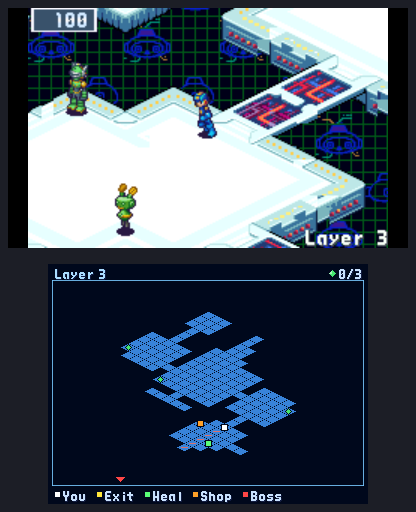
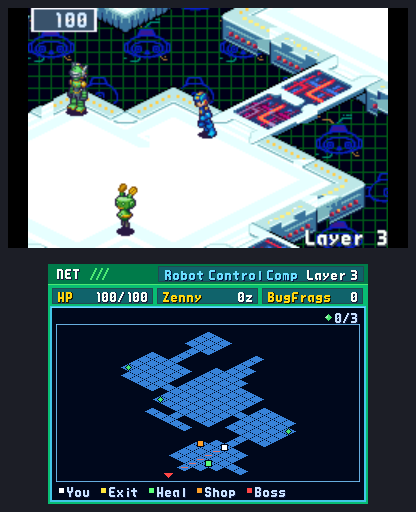
The second screen's polish: BN6's program colours, an Android display's sizes, the README's pictures, the fidelity table (issue #81)
The NaviCust programs' blocks wear BN6's own colours now, face and
shade, measured from the NaviCustomizer's preview of a program of each
colour (only the blue had been; the other five were guesses). Every
panel was captured at the AYN Thor's lower screen's 413 x 360 as well
as the 3DS's 320 x 240: they keep their places, the map and the
folder's grid using the room (--second-size WxH sets a capture's size,
up to 640 x 480). build.py screenshots makes the battle's, the folder
editor's and the NaviCustomizer's panels beside BN6's screens, as a New
3DS shows them, and remakes the two pictures of the old map-only second
screen; the README shows the three. docs/FIDELITY.md says what the
second screen is and whose its pictures and words are; AGENTS.md names
the capture's size and the second screen's reader and words.

Changed region(s): [[0.0938, 0.5, 0.9062, 1.0]]

diff --git a/build.py b/build.py
@@ -1240,6 +1240,16 @@ SCREENSHOTS = [
      [(900, 'voice-banter')], {}),
     ('falzar-face', ['--scene', 'emu', '--run-depth', '3', '--seed', '7', '--net-biome', '11', '--guardian', '8'],
      [(1348, 'guardian-tenguman'), (1600, 'falzar-face')], {'CYBERWORLD_AUTOPILOT': 'weak'}),
+    # (the second screen following the game, issue #72: seed 7's Green Area
+    # layer 2, its arrival's chats paged; the Custom screen's chip as a
+    # card, the folder editor's whole folder, the NaviCustomizer's program)
+    ('second-battle', ['--scene', 'emu', '--run-depth', '2', '--seed', '7', '--net-biome', '3', '--dev', 'quiet',
+                       '--input', '600:,' + '4:A,6:,' * 110 + '60:,0:battle,400:'], [(2230, 'second-battle')], {}, '3ds'),
+    ('second-folder', ['--scene', 'emu', '--run-depth', '2', '--seed', '7', '--net-biome', '3', '--dev', 'quiet',
+                       '--input', '600:,' + '4:A,6:,' * 110 + '60:,6:START,40:,6:A,60:,6:A,60:,6:A,60:,6:DOWN,30:'], [(2080, 'second-folder')], {}, '3ds'),
+    ('second-navicust', ['--scene', 'emu', '--run-depth', '2', '--seed', '7', '--net-biome', '3', '--dev', 'quiet,programs=8',
+                         '--input', '600:,' + '4:A,6:,' * 110 + '60:,6:START,40:' + ',6:DOWN,8:' * 3 + ',6:A,60:,6:A,90:,6:DOWN,30:'],
+     [(2070, 'second-navicust')], {}, '3ds'),
     # (the layer's map on a second screen, the guardian's mark on it)
     ('second-screen', ['--scene', 'emu', '--run-depth', '3', '--seed', '7', '--net-biome', '11', '--guardian', '12'],
      [(1250, 'second-screen')], {'CYBERWORLD_AUTOPILOT': 'weak'}, '3ds'),

diff --git a/src/second/second_card.c b/src/second/second_card.c
@@ -31,14 +31,13 @@ void second_chip_card(uint16_t e, int x, int y, int w) {
 	second_wrapped(desc, tx, y + 52, x + w - tx - 4, 3, PET_WHITE);
 }
 
-/* BN6's program colours 1-6 as its blocks draw them, a face and its shade:
- * the blue measured from the NaviCustomizer's preview (16, 99, 255 on 0,
- * 57, 214), the others BN6's hues until the art pass measures them (issue
- * #81) */
-static const SDL_Color face[7] = { { 0, 0, 0, 255 }, { 239, 239, 239, 255 }, { 255, 214, 0, 255 },
-	{ 255, 115, 198, 255 }, { 255, 57, 41, 255 }, { 16, 99, 255, 255 }, { 41, 206, 57, 255 } };
-static const SDL_Color shade[7] = { { 0, 0, 0, 255 }, { 165, 173, 189, 255 }, { 206, 148, 0, 255 },
-	{ 206, 57, 148, 255 }, { 189, 16, 16, 255 }, { 0, 57, 214, 255 }, { 8, 148, 33, 255 } };
+/* BN6's program colours 1-6 as its blocks draw them, a face and its
+ * shade: measured from the NaviCustomizer's preview of a program of each
+ * colour (white, yellow, pink, red, blue, green) */
+static const SDL_Color face[7] = { { 0, 0, 0, 255 }, { 255, 255, 255, 255 }, { 239, 247, 0, 255 },
+	{ 255, 148, 231, 255 }, { 231, 0, 0, 255 }, { 16, 99, 255, 255 }, { 0, 239, 16, 255 } };
+static const SDL_Color shade[7] = { { 0, 0, 0, 255 }, { 206, 206, 214, 255 }, { 214, 198, 0, 255 },
+	{ 214, 99, 165, 255 }, { 189, 0, 0, 255 }, { 0, 57, 214, 255 }, { 0, 189, 8, 255 } };
 
 void second_program_shape(const NaviShape *s, int x, int y) {
 	int c = s->color >= 1 && s->color <= 6 ? s->color : 0;

diff --git a/src/core/platform_second.c b/src/core/platform_second.c
@@ -72,11 +72,21 @@ static bool draw_second(uint32_t *px, int w, int h, int pitch) {
 	return drew;
 }
 
+/* (a shot's size: the 3DS's, or an Android display's, --second-size) */
+#define SHOT_MAX_W (SECOND_W * 2)
+#define SHOT_MAX_H (SECOND_H * 2)
+static int shot_w = SECOND_W, shot_h = SECOND_H;
+
+void platform_second_shot_size(int w, int h) {
+	shot_w = w < SECOND_W ? SECOND_W : w > SHOT_MAX_W ? SHOT_MAX_W : w;
+	shot_h = h < SECOND_H ? SECOND_H : h > SHOT_MAX_H ? SHOT_MAX_H : h;
+}
+
 bool platform_save_second_screen(const char *path) {
-	static uint32_t px[SECOND_W * SECOND_H];
+	static uint32_t px[SHOT_MAX_W * SHOT_MAX_H];
 	memset(px, 0, sizeof px);
-	if (!draw_second(px, SECOND_W, SECOND_H, SECOND_W * 4)) return false;
-	SDL_Surface *s = SDL_CreateRGBSurfaceWithFormatFrom(px, SECOND_W, SECOND_H, 32, SECOND_W * 4, SDL_PIXELFORMAT_RGBA8888);
+	if (!draw_second(px, shot_w, shot_h, shot_w * 4)) return false;
+	SDL_Surface *s = SDL_CreateRGBSurfaceWithFormatFrom(px, shot_w, shot_h, 32, shot_w * 4, SDL_PIXELFORMAT_RGBA8888);
 	bool ok = s && SDL_SaveBMP(s, path) == 0;
 	if (s) SDL_FreeSurface(s);
 	return ok;

diff --git a/src/dev/capture.c b/src/dev/capture.c
@@ -284,13 +284,18 @@ static const char *pad_kind;
 
 /* --shot FRAME:PATH,... saves the canvas; --screen-shot the screen as the
  * player sees it, the touch controls on it; --second-shot the second
- * screen, the 3DS's bottom one (on any target, for a check); --pad */
+ * screen, the 3DS's bottom one (on any target, for a check), at
+ * --second-size's WxH (an Android display's); --pad */
 static bool test_option(const char *a, const char *v) {
 	if (!strcmp(a, "--pad")) pad_kind = v;
 	else if (!strcmp(a, "--shot")) parse_shots(v, shots, &shot_count, 64);
 	else if (!strcmp(a, "--screen-shot")) parse_shots(v, screen_shots, &screen_shot_count, 16);
 	else if (!strcmp(a, "--second-shot")) parse_shots(v, second_shots, &second_shot_count, 16);
-	else return false;
+	else if (!strcmp(a, "--second-size")) {
+		int w = SECOND_W, h = SECOND_H;
+		sscanf(v, "%dx%d", &w, &h);
+		platform_second_shot_size(w, h);
+	} else return false;
 	return true;
 }
 

diff --git a/src/core/platform.h b/src/core/platform.h
@@ -140,8 +140,11 @@ void platform_second_screen_draw(void);
 /* ... at the next frame too, whatever its pace (a new panel, its title's
  * slide). */
 void platform_second_screen_soon(void);
-/* The second screen's picture now, into a BMP (--second-shot). */
+/* The second screen's picture now, into a BMP (--second-shot), at the
+ * 3DS's size or the one set (--second-size WxH: an Android display's, to
+ * 640 x 480) */
 bool platform_save_second_screen(const char *path);
+void platform_second_shot_size(int w, int h);
 /* Inject buttons for scripted tests; merged with real input. */
 void platform_inject(uint32_t buttons);
 /* Whether a game controller is connected (a PC without one is told its keys). */

diff --git a/AGENTS.md b/AGENTS.md
@@ -52,7 +52,7 @@ the site.
 | `src/map/` | Layers as game maps: tiles learned from the original maps (`tiles.c` their checks, `tiles_learn.c`, `tiles_pick.c`), walls and warp-pad triggers, the map tables taken over (`netmap.c`; the originals learned in `netmap_learn.c`, their scenery pasted in `netmap_paste.c`, the set pieces' cells in `netmap_extra.c`) |
 | `src/layer/` | What stands on a layer: NPC and text scripts, services, shops, choices, guardians. `layer_objs.c` installs each kind of object, `scripts.c` holds the parts every chat is built of; the words are files of their own (docs/VOICE.md, Where the lines live): `layer_words.c` (the Net Dealer, the NaviCust vendor, ProtoMan's terms, a ScrtData), the chats in `service_words.c`, `reward_words.c` and `lock_words.c`, the guardians' `guardian_lines.c`, the NaviCust's `navicust_words.c`, the bystanders' `npc_lines.c` and `rumor_lines.c` |
 | `src/director/` | The run on the game: the town, layers, warps, encounters, bosses, checkpoints, powers; the game's events from its hooks (`events.h`: battles in `encounter.c`, maps, choices and key items in `events.c`), taken up after each frame. `director.c` is the frame's course and the state its parts share (`director_state.h`); its parts are `director_*.c` (layers made and entered, the run's chips, checkpoints, what the drawing reads, the map, the way on, the pad, the NaviCust's board, the duel, DarkChips, the older net's battles, dev steps, the state in words), and what they say is in `*_words.c` (L's briefing, the story's beats, Chaud, the NaviCust, DarkChips, the older net, lessons) |
-| `src/second/` | The second screen (issue #72): the 3DS's bottom screen, Android's second display. It follows BN6's screen as the DS games' PET followed theirs: `second.c` reads which screen the player is on once a frame (BN6's modes, docs/ROM_DATA.md) into a state the draw reads (on the 3DS the draw runs while the core's thread runs the next frame), `second_frame.c` draws the PET's frame (in `tools/site_art.py`'s colours, measured from BN6's PET), and each screen's panel has a file of its own |
+| `src/second/` | The second screen (issue #72): the 3DS's bottom screen, Android's second display. It follows BN6's screen as the DS games' PET followed theirs: `second.c` reads which screen the player is on once a frame (BN6's modes, docs/ROM_DATA.md) into a state the draw reads (on the 3DS the draw runs while the core's thread runs the next frame), `second_read.c` reads each panel's facts, `second_frame.c` draws the PET's frame (in `tools/site_art.py`'s colours, measured from BN6's PET), each screen's panel has a file of its own, and `second_text.c` holds the panels' words |
 | `src/world/` | The real world: the town where a run begins, learned from Central Town's tiles and planned per run (`docs/OVERWORLD.md`); its folk and what is said there in `town_lines.c` |
 | `tests/test_core.c` | ROM-free unit tests; `tests/test_emu.c` the hooks on mGBA, and two cores side by side as BN6's and the guest's run (each one's hooks, RAM, sound and state its own), with ROMs of its own bytes; `tests/test_add_to_steam.py` runs `linux/steam/add-to-steam.py` against a made-up Steam folder; `tests/lint/` the baselines `build.py lint` checks against |
 | `tools/romlab/` | libmgba research harness (dev only, needs your ROM) |
@@ -240,7 +240,7 @@ layer's chats at its frames (npc, shop, heal, programs, gift, challenge,
 undernet, gate, navigate for a Navi gate, vault, duel for ProtoMan's terms, official for an official gate, trader and bugtrader for a Chip or BugFrag Trader; intro, defeat, reward for the guardian; status for L; rumor for the layer's whisper (rumor_lines.c); dark for a flame of darkness (docs/META.md);
 fragment for MegaMan's words at a ScrtData; bugfrags gives 50 BugFrags, keys an Unlocker, rushfood three RushFood, wwwid a WWW-ID, zenny 10000 zenny, regup a RegUP3; guest a battle in BN5's engine at once on its territory, docs/MULTIROM.md). `--input "FRAMES:BUTTONS,..."` scripts the
 buttons (`UP+RIGHT`, `A`; play.py's dev steps too, `0:place X Y FACE`, `0:flags FROM TO 1` and `0:battle`, the layer's next random battle as soon as MegaMan is free on its map, BN5's on its territory; `300:battle` waits its 300 frames first), `--taps "FRAME:X,Y[>X2,Y2];..."` fingers at screen pixels (a tap, or a drag over 20 frames: the touch controls, their menu and editor), `--shot FRAME:PATH,...` and `--shot-range A:B:PREFIX`
-save frames (the canvas; `--screen-shot FRAME:PATH,...` the whole screen, the touch controls on it; `--second-shot FRAME:PATH,...` the second screen, the 3DS's bottom one with the layer's map), and `--sheet CAT:IDX:ANIM[:PAL]:PATH` or `--sheet
+save frames (the canvas; `--screen-shot FRAME:PATH,...` the whole screen, the touch controls on it; `--second-shot FRAME:PATH,...` the second screen, the 3DS's bottom one with its panel, at `--second-size WxH` an Android display's), and `--sheet CAT:IDX:ANIM[:PAL]:PATH` or `--sheet
 @CAT:FIRST:COUNT:PATH` draw sprites. Environment variables reach the image
 only when `build.py` lists them (`CYBERWORLD_EMU_DEBUG`, `CYBERWORLD_AUTOPILOT`
 and the audio ones).

diff --git a/docs/FIDELITY.md b/docs/FIDELITY.md
@@ -33,7 +33,8 @@ use.
 | Choices (challenge, Undernet, Secret Area) | Original text and flags | Yes sets an event flag the engine acts on |
 | Layer changes | Original warp pads | The game's jack-out and jack-in, with the next layer built while MegaMan jacks out |
 | Screen | Adapted | 240x160 at a whole-number scale with black borders; filled with sharp scaling where a whole scale leaves it a quarter smaller (640x480), and across a phone's width held upright |
-| Layer map | Adapted | Drawn by the engine (rectangles and the game's font): the floor MegaMan has seen, the way on, the services and gates he has come near and marks for what he senses. SELECT opens it over the picture; a second screen keeps it open, the 3DS's bottom one and on Android a display beside the game's (the AYN Thor's lower screen), at a whole scale there |
+| Layer map | Adapted | Drawn by the engine (rectangles and the game's font): the floor MegaMan has seen, the way on, the services and gates he has come near and marks for what he senses. SELECT opens it over the picture; on a layer the second screen keeps it open (below) |
+| The second screen (src/second/, issue #72) | Adapted, original pictures and text where BN6 has them | The 3DS's bottom screen, and on Android a display beside the game's (the AYN Thor's lower screen), as the DS games' PETs follow their screens: a frame in the colours of Gregar's PET, measured from its screens, with the place, HP, Zenny and BugFrags, and a panel for the screen the player is on, read from BN6's own state each frame: the layer's map on the net; in battle the chip under the Custom screen's cursor as a card (BN6's chip picture twice as large, its icons and Library text), CROSSSELECT's Cross and Beast Out by BN6's own tutorials, then MegaMan's chips, Cross, Beast Out and Full Synchro and the enemies' names and HP; the folder editor's whole folder as BN6's chip icons; the NaviCustomizer's program (its shape in BN6's block colours, measured) with what RUN would bring; the shops' and traders' entries with what the run holds; MegaMan's face (BN6's mugshot) on the PET's home, his status and the Library from the run's and the profile's record. Every picture is drawn from the player's ROM as the game runs; the panels' own words are the engine's (second_text.c). Nothing BN6 keeps from the player shows there: not the folder's draw, not an enemy's next move |
 
 ## Known gaps
 

diff --git a/README.md b/README.md
@@ -252,7 +252,7 @@ BN5. A handheld's own controls, a Bluetooth or USB
 controller (two Joy-Cons as one) and the touch screen all work: the game
 draws touch controls round the picture until a controller's button is
 pressed, and Back asks before it quits. On a handheld with a second
-screen, such as the AYN Thor, the lower one keeps the layer's map open, as
+screen, such as the AYN Thor, the lower one is the PET beside the game, as
 on a 3DS ([android/README.md](android/README.md#the-second-screen)).
 Uninstalling the app deletes its saves.
 
@@ -335,6 +335,10 @@ under the cursor, and in the town and on the title the PET at home with
 MegaMan's face.
 The older 3DS and 2DS are too slow for it.
 [3ds/README.md](3ds/README.md) has the rest.
+
+<img src="docs/screenshots/second-battle.png" width="208" alt="A New 3DS's two screens in a battle: BN6's Custom screen on top, the Cannon under its cursor as a large card below with its text, and the enemies' HP">
+<img src="docs/screenshots/second-folder.png" width="208" alt="The folder editor on top; below, the whole folder as BN6's chip icons with its codes, elements and Megas">
+<img src="docs/screenshots/second-navicust.png" width="208" alt="The NaviCustomizer on top; below, Custom1 as a card: its blue shape, where it goes, whether it fits, and what RUN would bring">
 
 ### In a browser
 

diff --git a/CHANGELOG.md b/CHANGELOG.md
@@ -2,6 +2,14 @@
 
 ## Unreleased
 
+- **The second screen's polish** (issue #81). The NaviCust programs'
+  blocks wear BN6's own colours, measured from its preview of a program of
+  each; every panel lays out at an Android display's larger sizes too
+  (the AYN Thor's 413 x 360 and up), which captures check with
+  `--second-size WxH`; the README shows the battle's, the folder editor's
+  and the NaviCustomizer's panels beside BN6's screens, and
+  docs/FIDELITY.md says what the second screen is and whose its pictures
+  and words are.
 - **Shops and traders on the second screen** (issue #78). At the Net
   Dealer and the NaviCust vendor the entry under the cursor is a card (a
   chip's picture, code, element, power and text; a program's shape, kind
